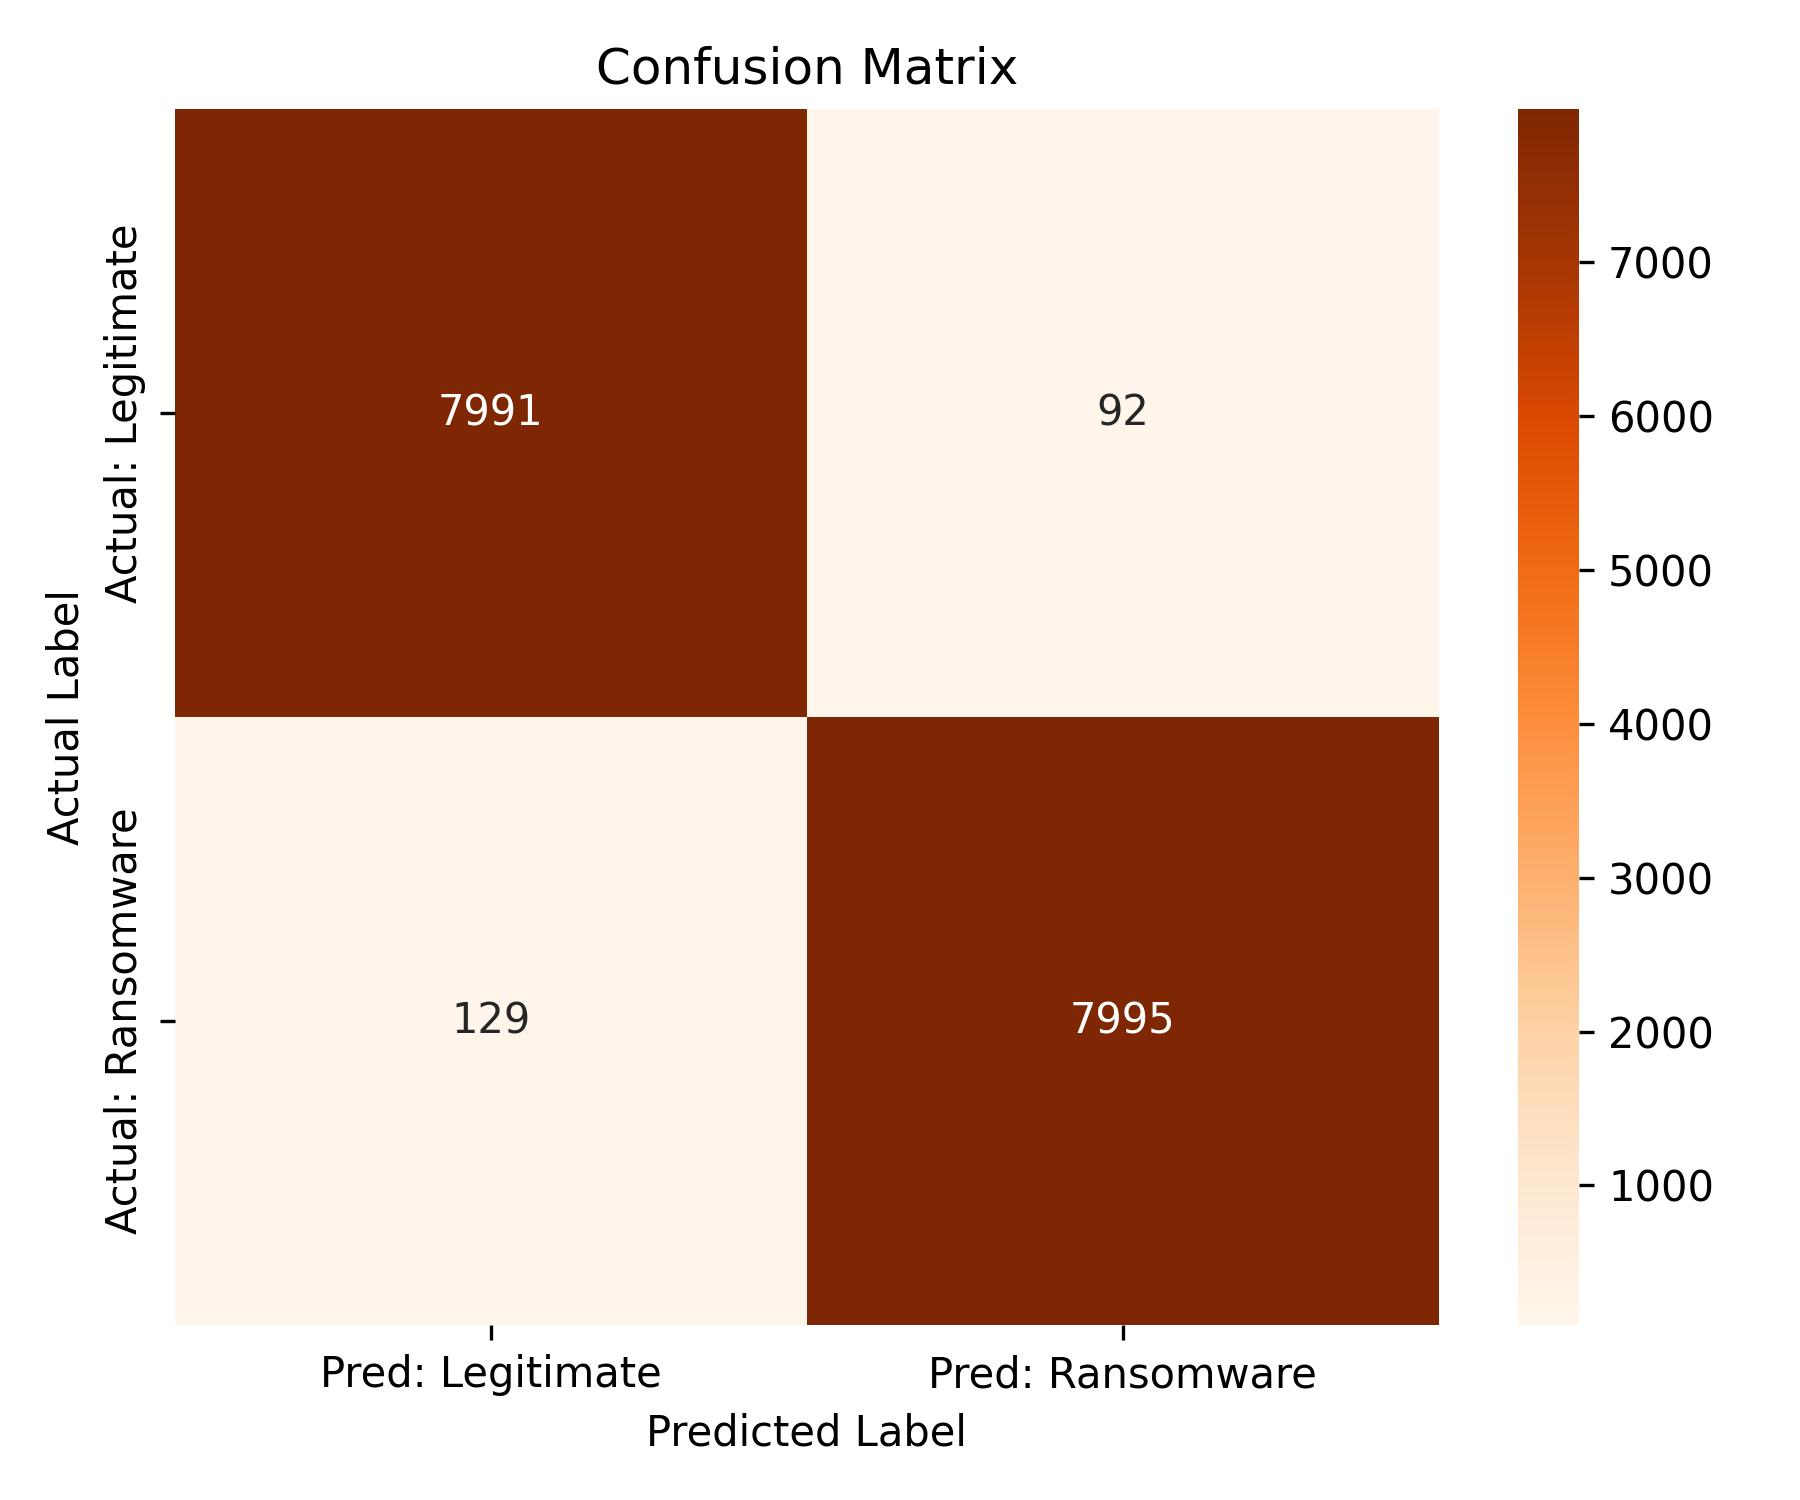
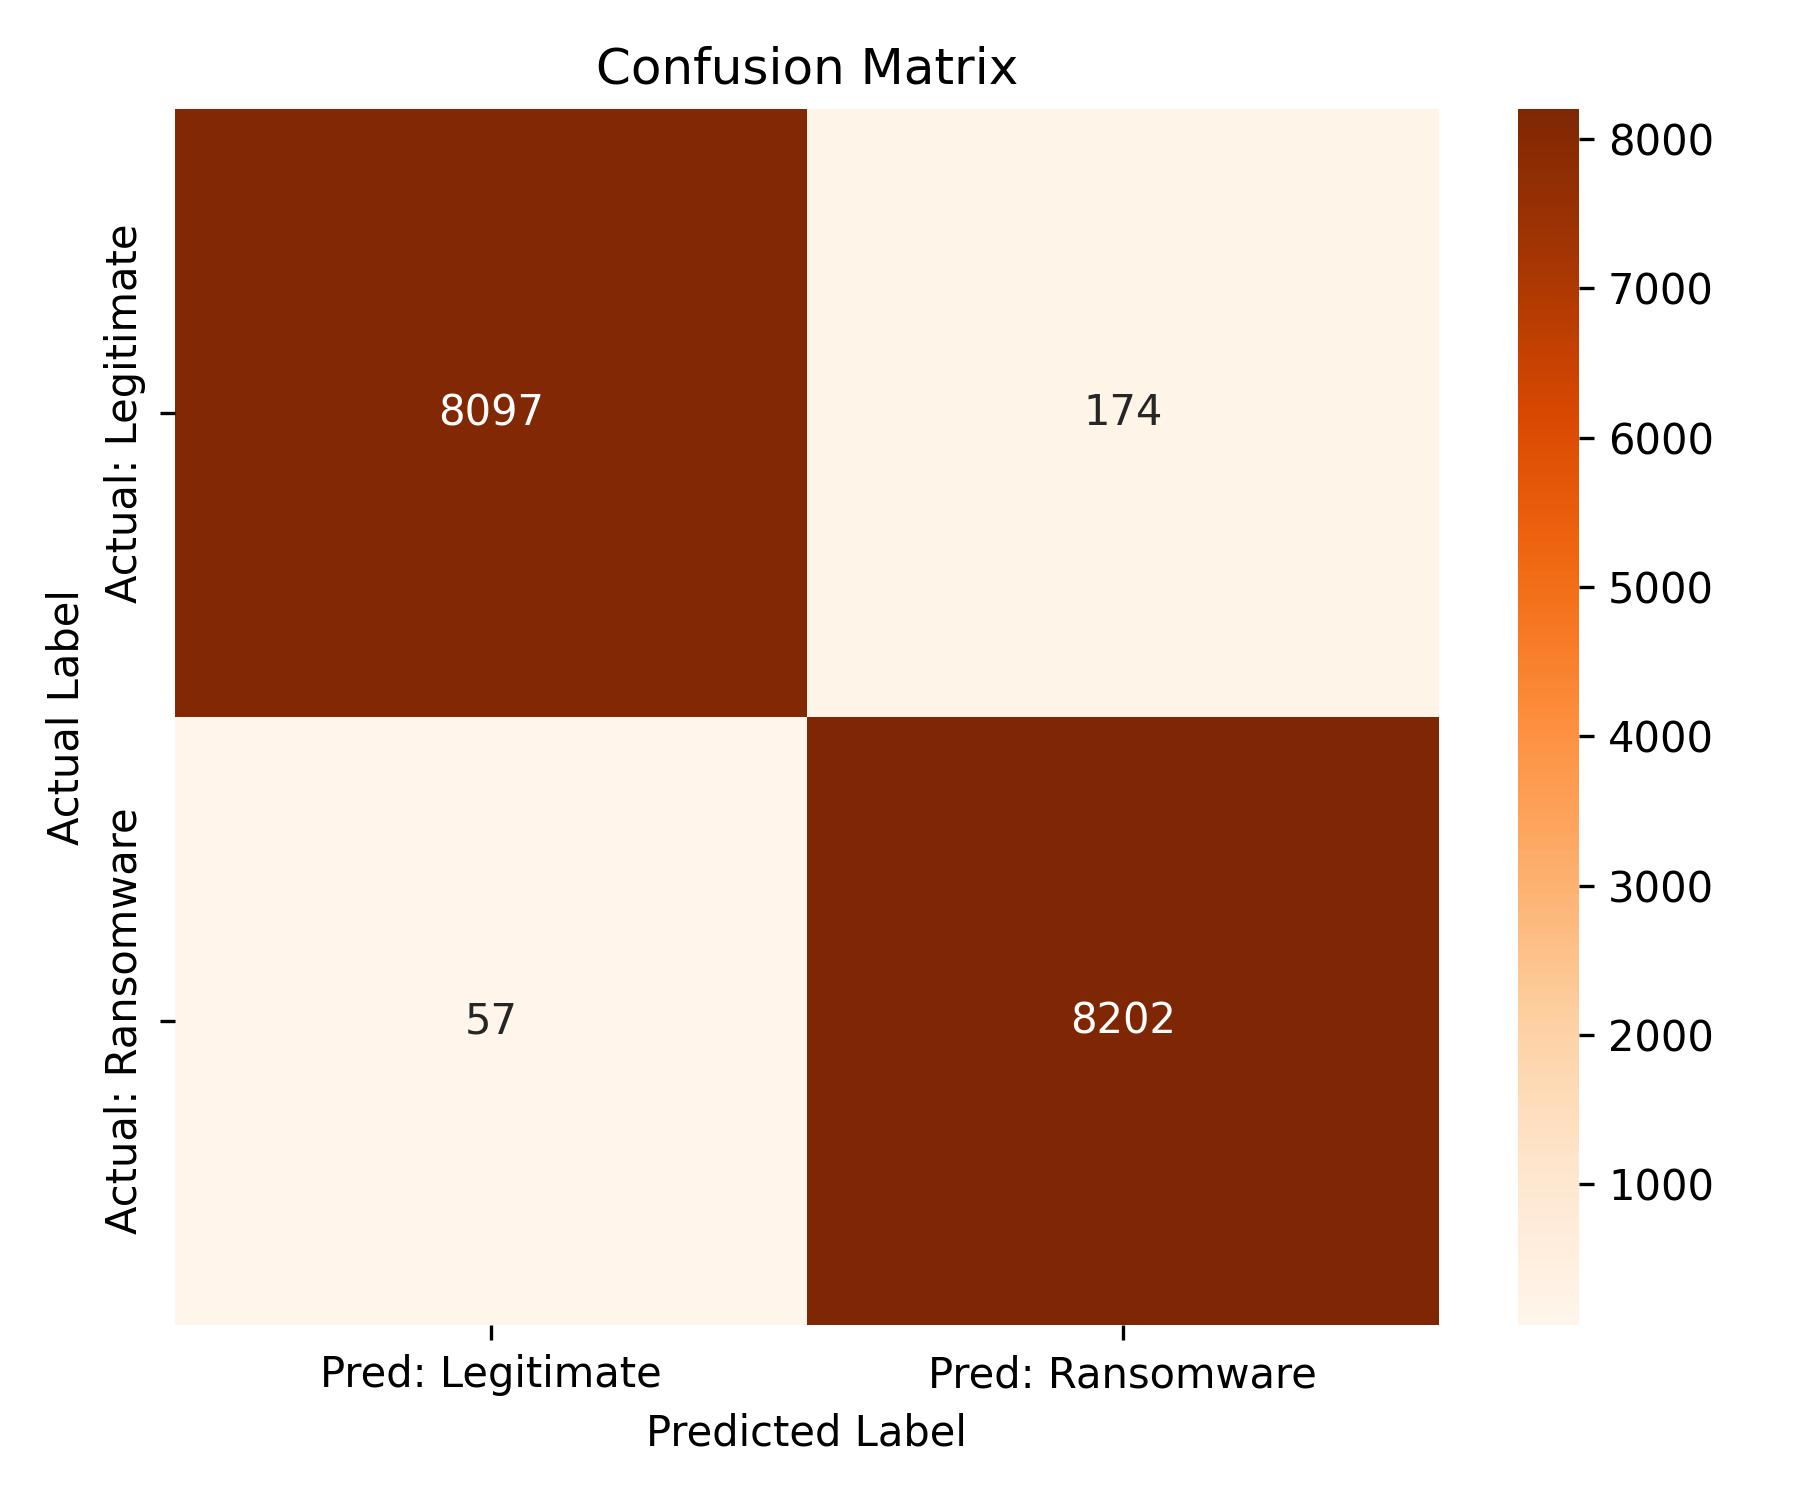
SVM model data added and changes

diff --git a/ml/scripts/save_confusion_matrix.py b/ml/scripts/save_confusion_matrix.py
@@ -2,7 +2,7 @@ import matplotlib.pyplot as plt
 import seaborn as sns
 import os
 
-conf_matrix = [[7991, 92], [129, 7995]]
+conf_matrix = [[8097, 174], [57, 8202]]
 
 plt.figure(figsize=(6, 5))
 sns.heatmap(conf_matrix, annot=True, fmt='d', cmap='Oranges',

diff --git a/README.md b/README.md
@@ -55,4 +55,4 @@
 | -------- | :-------: | :-------: | :-------: | :-------: | :-------: | :-------: | :-------: | ------- |
 | Random Forest | 0.986025 | 0.979226 | 0.993098 | 0.986114 | 0.997750 | 0.985483 | 12.096566 | [[8097, 174], [57, 8202]] |
 | Logistic Regression | 0.830913 | 0.804164 | 0.874561 | 0.837886 | 0.929293 | 0.840249 | 0.052966 | [[6512, 1759], [1036, 7223]] |
-| SVM | 0 | 0 | 0 | 0 | 0 | 0 | 0 | [] |
+| SVM | 0.955051 | 0.960652 | 0.948904 | 0.954742 | 0.980055 | 0.954754 | 372.0294 | [[7950, 321], [422, 7837]] |
